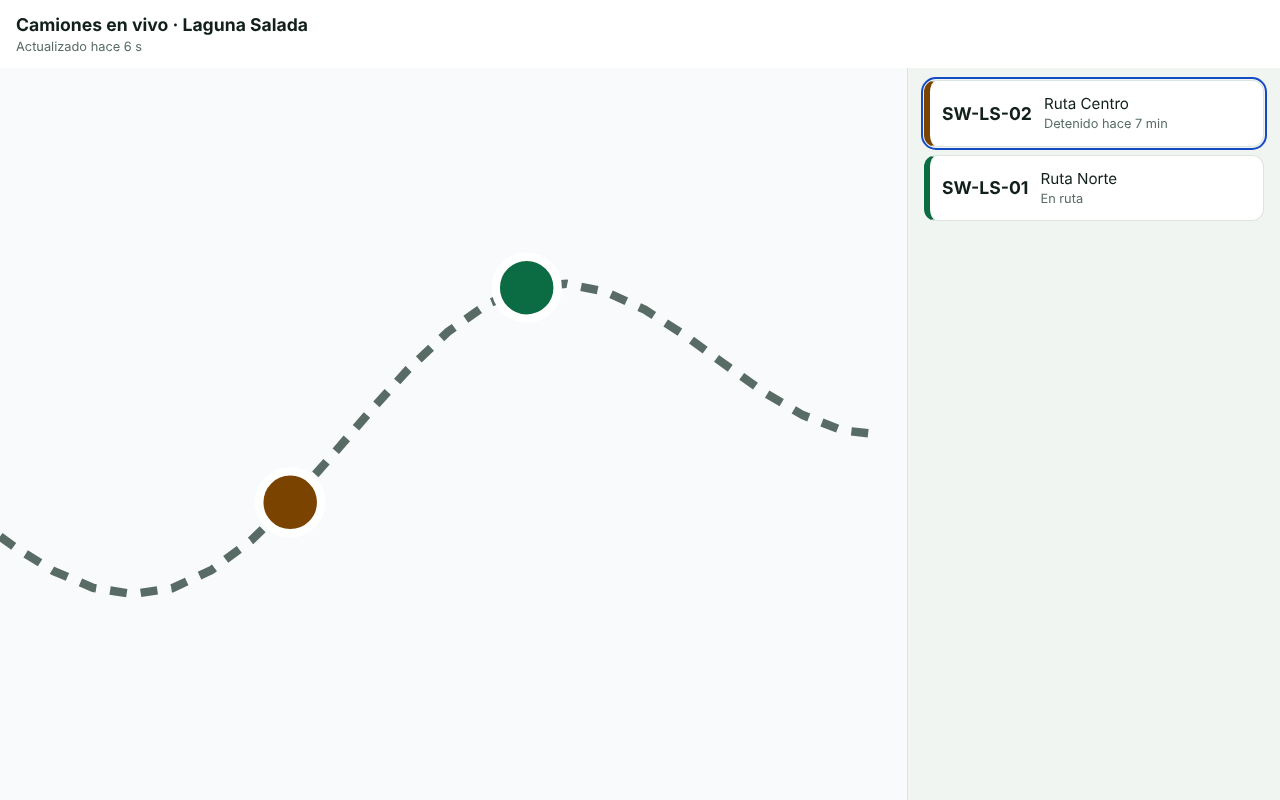
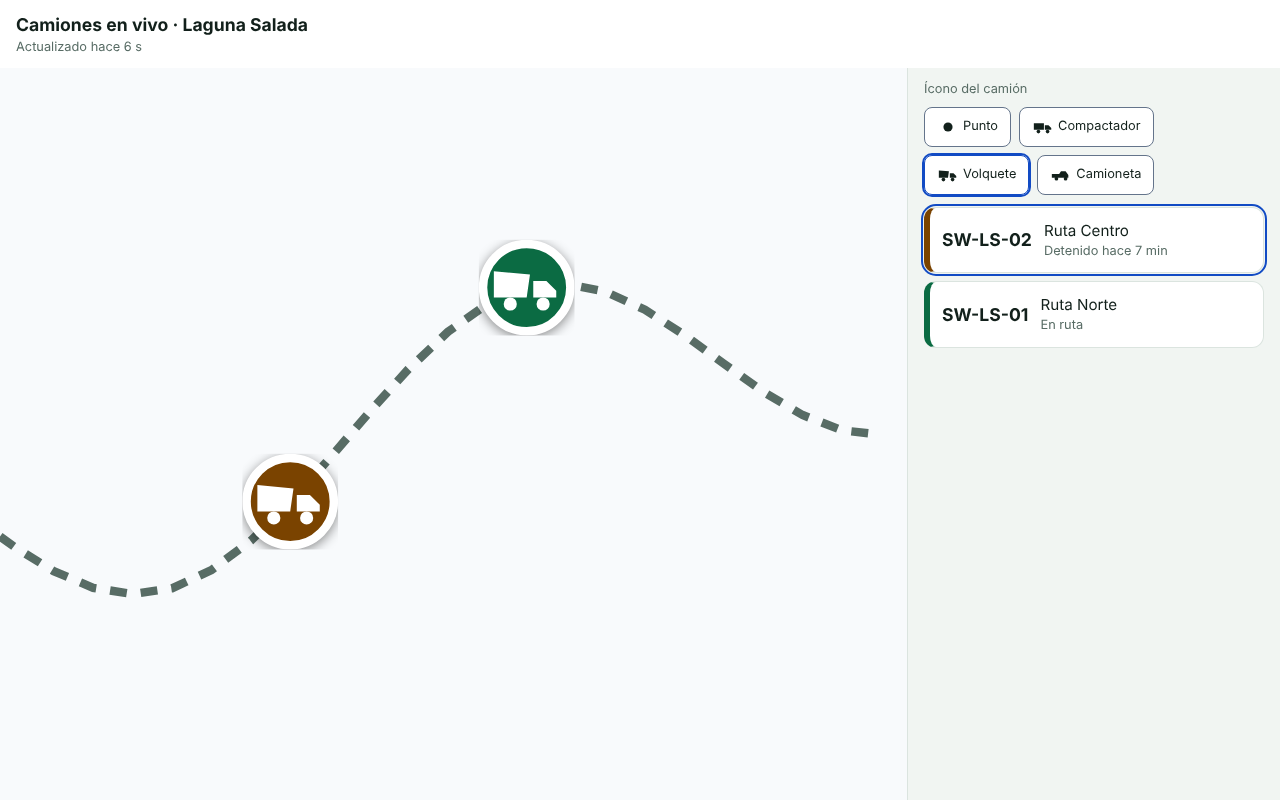
feat(SW-097): selector de íconos de camión para el ciudadano en la maqueta
Claude-Session: https://claude.ai/code/session_01TbnZphqsomRUw92ftRAxET

diff --git a/docs/evidence/SW-097/harness-error.html b/docs/evidence/SW-097/harness-error.html
@@ -195,13 +195,18 @@
 .live-notice__hint { margin-top: var(--space-2) !important; font-size: var(--font-size-1); color: var(--color-muted); }
 .live-notice--error { background: var(--color-warning-bg); color: var(--color-warning); border-color: var(--color-warning); }
 .live-notice--error .live-notice__hint { color: inherit; }
-.live-marker { width: 22px; height: 22px; border-radius: 50%; background: var(--status-en-ruta); border: 3px solid var(--color-surface); box-shadow: 0 1px 4px rgba(0,0,0,.45); }
+.live-marker { box-sizing: border-box; display: inline-flex; align-items: center; justify-content: center; width: 34px; height: 34px; border-radius: 50%; background: var(--status-en-ruta); color: var(--color-primary-contrast); border: 3px solid var(--color-surface); box-shadow: 0 1px 4px rgba(0,0,0,.45); }
 .live-marker--detenido { background: var(--status-detenido); }
-.live-marker--sin_senal { background: var(--status-sin-senal); opacity: .7; }
+.live-marker--sin_senal { background: var(--status-sin-senal); opacity: .75; }
+.live-icons { display: flex; flex-direction: column; gap: var(--space-2); }
+.live-icons__label { font-size: var(--font-size-1); color: var(--color-muted); }
+.live-icons__row { display: flex; flex-wrap: wrap; gap: var(--space-2); }
+.live-icon-option { display: inline-flex; align-items: center; gap: var(--space-1); padding: var(--space-2) var(--space-3); border: 1px solid var(--color-border-input); border-radius: var(--radius-1); background: var(--color-surface); color: var(--color-text); font: inherit; font-size: var(--font-size-1); cursor: pointer; }
+.live-icon-option[aria-pressed="true"] { border-color: var(--color-focus); outline: 2px solid var(--color-focus); }
 @media (min-width: 900px) {
   .live-shell { height: 100vh; }
   .live-body { flex-direction: row; }
   .live-map { flex: 1; height: auto; }
   .live-panel { width: 340px; overflow-y: auto; border-left: 1px solid var(--color-border); }
 }
-</style><script>var t=new URLSearchParams(location.search).get('t');document.documentElement.dataset.theme=t==='claro'?'claro':'oscuro';</script></head><body class="live-page"><div class="live-shell"><header class="live-header"><h1 class="live-header__title">Camiones en vivo · Laguna Salada</h1><p class="live-header__updated" aria-live="polite">Actualizado hace 1 min</p></header><div class="live-body"><div class="live-map"><svg viewBox="0 0 400 260" preserveAspectRatio="xMidYMid slice" role="img" aria-label="Mapa de ejemplo"><rect width="400" height="260" fill="var(--color-background-alt)"/><polyline points="30,160 44,170.0877878718461 58,178.7347921227895 72,184.65883939231585 86,186.87751605453252 100,184.81631831007059 114,178.37189707302727 128,167.92343526953297 142,154.29090506543247 156,138.6448003223947 170,122.37728148498059 184,106.9489180564662 198,93.72790018768288 212,83.83941994916952 226,78.04180331608288 240,76.64302901347446 254,79.4668243372968 268,85.87207033022764 282,94.82338007204297 296,105.00508039528691 310,114.9660492228488 324,123.27946394875156 338,128.69987478475224 352,130.30031147945493" fill="none" stroke="var(--color-muted)" stroke-width="3" stroke-dasharray="6 5"/><circle cx="142" cy="154.29090506543247" r="11" fill="var(--status-en-ruta)" stroke="var(--color-surface)" stroke-width="3"/><circle cx="226" cy="78.04180331608288" r="11" fill="var(--status-detenido)" stroke="var(--color-surface)" stroke-width="3"/></svg></div><div class="live-panel"><div class="live-notice live-notice--error" role="status"><p>No pudimos actualizar. Reintentando…</p><p class="live-notice__hint">Mostramos la última posición conocida.</p></div><ul class="live-list"><li><button type="button" class="live-card live-card--en_ruta" data-live-vehicle="SW-LS-01" aria-current="true"><span class="live-card__code">SW-LS-01</span><span class="live-card__route">Ruta Norte</span><span class="live-card__status">En ruta</span></button></li><li><button type="button" class="live-card live-card--detenido" data-live-vehicle="SW-LS-02"><span class="live-card__code">SW-LS-02</span><span class="live-card__route">Ruta Centro</span><span class="live-card__status">Detenido hace 7 min</span></button></li></ul></div></div></div></body></html>
+</style><script>var t=new URLSearchParams(location.search).get('t');document.documentElement.dataset.theme=t==='claro'?'claro':'oscuro';</script></head><body class="live-page"><div class="live-shell"><header class="live-header"><h1 class="live-header__title">Camiones en vivo · Laguna Salada</h1><p class="live-header__updated" aria-live="polite">Actualizado hace 1 min</p></header><div class="live-body"><div class="live-map"><svg viewBox="0 0 400 260" preserveAspectRatio="xMidYMid slice" role="img" aria-label="Mapa de ejemplo"><rect width="400" height="260" fill="var(--color-background-alt)"/><polyline points="30,160 44,170.0877878718461 58,178.7347921227895 72,184.65883939231585 86,186.87751605453252 100,184.81631831007059 114,178.37189707302727 128,167.92343526953297 142,154.29090506543247 156,138.6448003223947 170,122.37728148498059 184,106.9489180564662 198,93.72790018768288 212,83.83941994916952 226,78.04180331608288 240,76.64302901347446 254,79.4668243372968 268,85.87207033022764 282,94.82338007204297 296,105.00508039528691 310,114.9660492228488 324,123.27946394875156 338,128.69987478475224 352,130.30031147945493" fill="none" stroke="var(--color-muted)" stroke-width="3" stroke-dasharray="6 5"/><foreignObject x="125" y="137.29090506543247" width="34" height="34"><span class="live-marker live-marker--en_ruta"><svg viewBox="0 0 24 24" width="22" height="22" aria-hidden="true"><circle cx="12" cy="12" r="5" fill="currentColor"/></svg></span></foreignObject><foreignObject x="209" y="61.04180331608288" width="34" height="34"><span class="live-marker live-marker--detenido"><svg viewBox="0 0 24 24" width="22" height="22" aria-hidden="true"><circle cx="12" cy="12" r="5" fill="currentColor"/></svg></span></foreignObject></svg></div><div class="live-panel"><div class="live-icons" role="group" aria-label="Ícono de los camiones"><span class="live-icons__label">Ícono del camión</span><div class="live-icons__row"><button type="button" class="live-icon-option" data-live-icon="punto" aria-pressed="true" title="Punto"><svg viewBox="0 0 24 24" width="22" height="22" aria-hidden="true"><circle cx="12" cy="12" r="5" fill="currentColor"/></svg><span>Punto</span></button><button type="button" class="live-icon-option" data-live-icon="compactador" aria-pressed="false" title="Compactador"><svg viewBox="0 0 24 24" width="22" height="22" aria-hidden="true"><path fill="currentColor" d="M2 8h11v7H2zM14 10h4l3 3v2h-7z"/><circle cx="7" cy="17" r="2" fill="currentColor"/><circle cx="17" cy="17" r="2" fill="currentColor"/></svg><span>Compactador</span></button><button type="button" class="live-icon-option" data-live-icon="volquete" aria-pressed="false" title="Volquete"><svg viewBox="0 0 24 24" width="22" height="22" aria-hidden="true"><path fill="currentColor" d="M2 7l11 1-1 7H2zM14 10h4l3 3v2h-7z"/><circle cx="7" cy="17" r="2" fill="currentColor"/><circle cx="17" cy="17" r="2" fill="currentColor"/></svg><span>Volquete</span></button><button type="button" class="live-icon-option" data-live-icon="camioneta" aria-pressed="false" title="Camioneta"><svg viewBox="0 0 24 24" width="22" height="22" aria-hidden="true"><path fill="currentColor" d="M2 11h8l2-3h5l3 4v3H2z"/><circle cx="7" cy="16" r="2" fill="currentColor"/><circle cx="17" cy="16" r="2" fill="currentColor"/></svg><span>Camioneta</span></button></div></div><div class="live-notice live-notice--error" role="status"><p>No pudimos actualizar. Reintentando…</p><p class="live-notice__hint">Mostramos la última posición conocida.</p></div><ul class="live-list"><li><button type="button" class="live-card live-card--en_ruta" data-live-vehicle="SW-LS-01" aria-current="true"><span class="live-card__code">SW-LS-01</span><span class="live-card__route">Ruta Norte</span><span class="live-card__status">En ruta</span></button></li><li><button type="button" class="live-card live-card--detenido" data-live-vehicle="SW-LS-02"><span class="live-card__code">SW-LS-02</span><span class="live-card__route">Ruta Centro</span><span class="live-card__status">Detenido hace 7 min</span></button></li></ul></div></div></div></body></html>

diff --git a/docs/evidence/SW-097/harness-sin-senal.html b/docs/evidence/SW-097/harness-sin-senal.html
@@ -195,13 +195,18 @@
 .live-notice__hint { margin-top: var(--space-2) !important; font-size: var(--font-size-1); color: var(--color-muted); }
 .live-notice--error { background: var(--color-warning-bg); color: var(--color-warning); border-color: var(--color-warning); }
 .live-notice--error .live-notice__hint { color: inherit; }
-.live-marker { width: 22px; height: 22px; border-radius: 50%; background: var(--status-en-ruta); border: 3px solid var(--color-surface); box-shadow: 0 1px 4px rgba(0,0,0,.45); }
+.live-marker { box-sizing: border-box; display: inline-flex; align-items: center; justify-content: center; width: 34px; height: 34px; border-radius: 50%; background: var(--status-en-ruta); color: var(--color-primary-contrast); border: 3px solid var(--color-surface); box-shadow: 0 1px 4px rgba(0,0,0,.45); }
 .live-marker--detenido { background: var(--status-detenido); }
-.live-marker--sin_senal { background: var(--status-sin-senal); opacity: .7; }
+.live-marker--sin_senal { background: var(--status-sin-senal); opacity: .75; }
+.live-icons { display: flex; flex-direction: column; gap: var(--space-2); }
+.live-icons__label { font-size: var(--font-size-1); color: var(--color-muted); }
+.live-icons__row { display: flex; flex-wrap: wrap; gap: var(--space-2); }
+.live-icon-option { display: inline-flex; align-items: center; gap: var(--space-1); padding: var(--space-2) var(--space-3); border: 1px solid var(--color-border-input); border-radius: var(--radius-1); background: var(--color-surface); color: var(--color-text); font: inherit; font-size: var(--font-size-1); cursor: pointer; }
+.live-icon-option[aria-pressed="true"] { border-color: var(--color-focus); outline: 2px solid var(--color-focus); }
 @media (min-width: 900px) {
   .live-shell { height: 100vh; }
   .live-body { flex-direction: row; }
   .live-map { flex: 1; height: auto; }
   .live-panel { width: 340px; overflow-y: auto; border-left: 1px solid var(--color-border); }
 }
-</style><script>var t=new URLSearchParams(location.search).get('t');document.documentElement.dataset.theme=t==='claro'?'claro':'oscuro';</script></head><body class="live-page"><div class="live-shell"><header class="live-header"><h1 class="live-header__title">Camiones en vivo · Laguna Salada</h1><p class="live-header__updated" aria-live="polite">Actualizado hace 12 s</p></header><div class="live-body"><div class="live-map"><svg viewBox="0 0 400 260" preserveAspectRatio="xMidYMid slice" role="img" aria-label="Mapa de ejemplo"><rect width="400" height="260" fill="var(--color-background-alt)"/><polyline points="30,160 44,170.0877878718461 58,178.7347921227895 72,184.65883939231585 86,186.87751605453252 100,184.81631831007059 114,178.37189707302727 128,167.92343526953297 142,154.29090506543247 156,138.6448003223947 170,122.37728148498059 184,106.9489180564662 198,93.72790018768288 212,83.83941994916952 226,78.04180331608288 240,76.64302901347446 254,79.4668243372968 268,85.87207033022764 282,94.82338007204297 296,105.00508039528691 310,114.9660492228488 324,123.27946394875156 338,128.69987478475224 352,130.30031147945493" fill="none" stroke="var(--color-muted)" stroke-width="3" stroke-dasharray="6 5"/><circle cx="142" cy="154.29090506543247" r="11" fill="var(--status-sin-senal)" stroke="var(--color-surface)" stroke-width="3"/><circle cx="226" cy="78.04180331608288" r="11" fill="var(--status-en-ruta)" stroke="var(--color-surface)" stroke-width="3"/></svg></div><div class="live-panel"><ul class="live-list"><li><button type="button" class="live-card live-card--sin_senal is-stale" data-live-vehicle="SW-LS-03" aria-current="true"><span class="live-card__code">SW-LS-03</span><span class="live-card__route">Ruta Mercado</span><span class="live-card__status">Sin señal desde las 14:50</span></button></li><li><button type="button" class="live-card live-card--en_ruta" data-live-vehicle="SW-LS-01"><span class="live-card__code">SW-LS-01</span><span class="live-card__route">Ruta Norte</span><span class="live-card__status">En ruta</span></button></li></ul></div></div></div></body></html>
+</style><script>var t=new URLSearchParams(location.search).get('t');document.documentElement.dataset.theme=t==='claro'?'claro':'oscuro';</script></head><body class="live-page"><div class="live-shell"><header class="live-header"><h1 class="live-header__title">Camiones en vivo · Laguna Salada</h1><p class="live-header__updated" aria-live="polite">Actualizado hace 12 s</p></header><div class="live-body"><div class="live-map"><svg viewBox="0 0 400 260" preserveAspectRatio="xMidYMid slice" role="img" aria-label="Mapa de ejemplo"><rect width="400" height="260" fill="var(--color-background-alt)"/><polyline points="30,160 44,170.0877878718461 58,178.7347921227895 72,184.65883939231585 86,186.87751605453252 100,184.81631831007059 114,178.37189707302727 128,167.92343526953297 142,154.29090506543247 156,138.6448003223947 170,122.37728148498059 184,106.9489180564662 198,93.72790018768288 212,83.83941994916952 226,78.04180331608288 240,76.64302901347446 254,79.4668243372968 268,85.87207033022764 282,94.82338007204297 296,105.00508039528691 310,114.9660492228488 324,123.27946394875156 338,128.69987478475224 352,130.30031147945493" fill="none" stroke="var(--color-muted)" stroke-width="3" stroke-dasharray="6 5"/><foreignObject x="125" y="137.29090506543247" width="34" height="34"><span class="live-marker live-marker--sin_senal"><svg viewBox="0 0 24 24" width="22" height="22" aria-hidden="true"><path fill="currentColor" d="M2 11h8l2-3h5l3 4v3H2z"/><circle cx="7" cy="16" r="2" fill="currentColor"/><circle cx="17" cy="16" r="2" fill="currentColor"/></svg></span></foreignObject><foreignObject x="209" y="61.04180331608288" width="34" height="34"><span class="live-marker live-marker--en_ruta"><svg viewBox="0 0 24 24" width="22" height="22" aria-hidden="true"><path fill="currentColor" d="M2 11h8l2-3h5l3 4v3H2z"/><circle cx="7" cy="16" r="2" fill="currentColor"/><circle cx="17" cy="16" r="2" fill="currentColor"/></svg></span></foreignObject></svg></div><div class="live-panel"><div class="live-icons" role="group" aria-label="Ícono de los camiones"><span class="live-icons__label">Ícono del camión</span><div class="live-icons__row"><button type="button" class="live-icon-option" data-live-icon="punto" aria-pressed="false" title="Punto"><svg viewBox="0 0 24 24" width="22" height="22" aria-hidden="true"><circle cx="12" cy="12" r="5" fill="currentColor"/></svg><span>Punto</span></button><button type="button" class="live-icon-option" data-live-icon="compactador" aria-pressed="false" title="Compactador"><svg viewBox="0 0 24 24" width="22" height="22" aria-hidden="true"><path fill="currentColor" d="M2 8h11v7H2zM14 10h4l3 3v2h-7z"/><circle cx="7" cy="17" r="2" fill="currentColor"/><circle cx="17" cy="17" r="2" fill="currentColor"/></svg><span>Compactador</span></button><button type="button" class="live-icon-option" data-live-icon="volquete" aria-pressed="false" title="Volquete"><svg viewBox="0 0 24 24" width="22" height="22" aria-hidden="true"><path fill="currentColor" d="M2 7l11 1-1 7H2zM14 10h4l3 3v2h-7z"/><circle cx="7" cy="17" r="2" fill="currentColor"/><circle cx="17" cy="17" r="2" fill="currentColor"/></svg><span>Volquete</span></button><button type="button" class="live-icon-option" data-live-icon="camioneta" aria-pressed="true" title="Camioneta"><svg viewBox="0 0 24 24" width="22" height="22" aria-hidden="true"><path fill="currentColor" d="M2 11h8l2-3h5l3 4v3H2z"/><circle cx="7" cy="16" r="2" fill="currentColor"/><circle cx="17" cy="16" r="2" fill="currentColor"/></svg><span>Camioneta</span></button></div></div><ul class="live-list"><li><button type="button" class="live-card live-card--sin_senal is-stale" data-live-vehicle="SW-LS-03" aria-current="true"><span class="live-card__code">SW-LS-03</span><span class="live-card__route">Ruta Mercado</span><span class="live-card__status">Sin señal desde las 14:50</span></button></li><li><button type="button" class="live-card live-card--en_ruta" data-live-vehicle="SW-LS-01"><span class="live-card__code">SW-LS-01</span><span class="live-card__route">Ruta Norte</span><span class="live-card__status">En ruta</span></button></li></ul></div></div></div></body></html>

diff --git a/docs/evidence/SW-097/harness-detenido.html b/docs/evidence/SW-097/harness-detenido.html
@@ -195,13 +195,18 @@
 .live-notice__hint { margin-top: var(--space-2) !important; font-size: var(--font-size-1); color: var(--color-muted); }
 .live-notice--error { background: var(--color-warning-bg); color: var(--color-warning); border-color: var(--color-warning); }
 .live-notice--error .live-notice__hint { color: inherit; }
-.live-marker { width: 22px; height: 22px; border-radius: 50%; background: var(--status-en-ruta); border: 3px solid var(--color-surface); box-shadow: 0 1px 4px rgba(0,0,0,.45); }
+.live-marker { box-sizing: border-box; display: inline-flex; align-items: center; justify-content: center; width: 34px; height: 34px; border-radius: 50%; background: var(--status-en-ruta); color: var(--color-primary-contrast); border: 3px solid var(--color-surface); box-shadow: 0 1px 4px rgba(0,0,0,.45); }
 .live-marker--detenido { background: var(--status-detenido); }
-.live-marker--sin_senal { background: var(--status-sin-senal); opacity: .7; }
+.live-marker--sin_senal { background: var(--status-sin-senal); opacity: .75; }
+.live-icons { display: flex; flex-direction: column; gap: var(--space-2); }
+.live-icons__label { font-size: var(--font-size-1); color: var(--color-muted); }
+.live-icons__row { display: flex; flex-wrap: wrap; gap: var(--space-2); }
+.live-icon-option { display: inline-flex; align-items: center; gap: var(--space-1); padding: var(--space-2) var(--space-3); border: 1px solid var(--color-border-input); border-radius: var(--radius-1); background: var(--color-surface); color: var(--color-text); font: inherit; font-size: var(--font-size-1); cursor: pointer; }
+.live-icon-option[aria-pressed="true"] { border-color: var(--color-focus); outline: 2px solid var(--color-focus); }
 @media (min-width: 900px) {
   .live-shell { height: 100vh; }
   .live-body { flex-direction: row; }
   .live-map { flex: 1; height: auto; }
   .live-panel { width: 340px; overflow-y: auto; border-left: 1px solid var(--color-border); }
 }
-</style><script>var t=new URLSearchParams(location.search).get('t');document.documentElement.dataset.theme=t==='claro'?'claro':'oscuro';</script></head><body class="live-page"><div class="live-shell"><header class="live-header"><h1 class="live-header__title">Camiones en vivo · Laguna Salada</h1><p class="live-header__updated" aria-live="polite">Actualizado hace 6 s</p></header><div class="live-body"><div class="live-map"><svg viewBox="0 0 400 260" preserveAspectRatio="xMidYMid slice" role="img" aria-label="Mapa de ejemplo"><rect width="400" height="260" fill="var(--color-background-alt)"/><polyline points="30,160 44,170.0877878718461 58,178.7347921227895 72,184.65883939231585 86,186.87751605453252 100,184.81631831007059 114,178.37189707302727 128,167.92343526953297 142,154.29090506543247 156,138.6448003223947 170,122.37728148498059 184,106.9489180564662 198,93.72790018768288 212,83.83941994916952 226,78.04180331608288 240,76.64302901347446 254,79.4668243372968 268,85.87207033022764 282,94.82338007204297 296,105.00508039528691 310,114.9660492228488 324,123.27946394875156 338,128.69987478475224 352,130.30031147945493" fill="none" stroke="var(--color-muted)" stroke-width="3" stroke-dasharray="6 5"/><circle cx="142" cy="154.29090506543247" r="11" fill="var(--status-detenido)" stroke="var(--color-surface)" stroke-width="3"/><circle cx="226" cy="78.04180331608288" r="11" fill="var(--status-en-ruta)" stroke="var(--color-surface)" stroke-width="3"/></svg></div><div class="live-panel"><ul class="live-list"><li><button type="button" class="live-card live-card--detenido" data-live-vehicle="SW-LS-02" aria-current="true"><span class="live-card__code">SW-LS-02</span><span class="live-card__route">Ruta Centro</span><span class="live-card__status">Detenido hace 7 min</span></button></li><li><button type="button" class="live-card live-card--en_ruta" data-live-vehicle="SW-LS-01"><span class="live-card__code">SW-LS-01</span><span class="live-card__route">Ruta Norte</span><span class="live-card__status">En ruta</span></button></li></ul></div></div></div></body></html>
+</style><script>var t=new URLSearchParams(location.search).get('t');document.documentElement.dataset.theme=t==='claro'?'claro':'oscuro';</script></head><body class="live-page"><div class="live-shell"><header class="live-header"><h1 class="live-header__title">Camiones en vivo · Laguna Salada</h1><p class="live-header__updated" aria-live="polite">Actualizado hace 6 s</p></header><div class="live-body"><div class="live-map"><svg viewBox="0 0 400 260" preserveAspectRatio="xMidYMid slice" role="img" aria-label="Mapa de ejemplo"><rect width="400" height="260" fill="var(--color-background-alt)"/><polyline points="30,160 44,170.0877878718461 58,178.7347921227895 72,184.65883939231585 86,186.87751605453252 100,184.81631831007059 114,178.37189707302727 128,167.92343526953297 142,154.29090506543247 156,138.6448003223947 170,122.37728148498059 184,106.9489180564662 198,93.72790018768288 212,83.83941994916952 226,78.04180331608288 240,76.64302901347446 254,79.4668243372968 268,85.87207033022764 282,94.82338007204297 296,105.00508039528691 310,114.9660492228488 324,123.27946394875156 338,128.69987478475224 352,130.30031147945493" fill="none" stroke="var(--color-muted)" stroke-width="3" stroke-dasharray="6 5"/><foreignObject x="125" y="137.29090506543247" width="34" height="34"><span class="live-marker live-marker--detenido"><svg viewBox="0 0 24 24" width="22" height="22" aria-hidden="true"><path fill="currentColor" d="M2 7l11 1-1 7H2zM14 10h4l3 3v2h-7z"/><circle cx="7" cy="17" r="2" fill="currentColor"/><circle cx="17" cy="17" r="2" fill="currentColor"/></svg></span></foreignObject><foreignObject x="209" y="61.04180331608288" width="34" height="34"><span class="live-marker live-marker--en_ruta"><svg viewBox="0 0 24 24" width="22" height="22" aria-hidden="true"><path fill="currentColor" d="M2 7l11 1-1 7H2zM14 10h4l3 3v2h-7z"/><circle cx="7" cy="17" r="2" fill="currentColor"/><circle cx="17" cy="17" r="2" fill="currentColor"/></svg></span></foreignObject></svg></div><div class="live-panel"><div class="live-icons" role="group" aria-label="Ícono de los camiones"><span class="live-icons__label">Ícono del camión</span><div class="live-icons__row"><button type="button" class="live-icon-option" data-live-icon="punto" aria-pressed="false" title="Punto"><svg viewBox="0 0 24 24" width="22" height="22" aria-hidden="true"><circle cx="12" cy="12" r="5" fill="currentColor"/></svg><span>Punto</span></button><button type="button" class="live-icon-option" data-live-icon="compactador" aria-pressed="false" title="Compactador"><svg viewBox="0 0 24 24" width="22" height="22" aria-hidden="true"><path fill="currentColor" d="M2 8h11v7H2zM14 10h4l3 3v2h-7z"/><circle cx="7" cy="17" r="2" fill="currentColor"/><circle cx="17" cy="17" r="2" fill="currentColor"/></svg><span>Compactador</span></button><button type="button" class="live-icon-option" data-live-icon="volquete" aria-pressed="true" title="Volquete"><svg viewBox="0 0 24 24" width="22" height="22" aria-hidden="true"><path fill="currentColor" d="M2 7l11 1-1 7H2zM14 10h4l3 3v2h-7z"/><circle cx="7" cy="17" r="2" fill="currentColor"/><circle cx="17" cy="17" r="2" fill="currentColor"/></svg><span>Volquete</span></button><button type="button" class="live-icon-option" data-live-icon="camioneta" aria-pressed="false" title="Camioneta"><svg viewBox="0 0 24 24" width="22" height="22" aria-hidden="true"><path fill="currentColor" d="M2 11h8l2-3h5l3 4v3H2z"/><circle cx="7" cy="16" r="2" fill="currentColor"/><circle cx="17" cy="16" r="2" fill="currentColor"/></svg><span>Camioneta</span></button></div></div><ul class="live-list"><li><button type="button" class="live-card live-card--detenido" data-live-vehicle="SW-LS-02" aria-current="true"><span class="live-card__code">SW-LS-02</span><span class="live-card__route">Ruta Centro</span><span class="live-card__status">Detenido hace 7 min</span></button></li><li><button type="button" class="live-card live-card--en_ruta" data-live-vehicle="SW-LS-01"><span class="live-card__code">SW-LS-01</span><span class="live-card__route">Ruta Norte</span><span class="live-card__status">En ruta</span></button></li></ul></div></div></div></body></html>

diff --git a/docs/evidence/SW-097/harness-en-ruta.html b/docs/evidence/SW-097/harness-en-ruta.html
@@ -195,13 +195,18 @@
 .live-notice__hint { margin-top: var(--space-2) !important; font-size: var(--font-size-1); color: var(--color-muted); }
 .live-notice--error { background: var(--color-warning-bg); color: var(--color-warning); border-color: var(--color-warning); }
 .live-notice--error .live-notice__hint { color: inherit; }
-.live-marker { width: 22px; height: 22px; border-radius: 50%; background: var(--status-en-ruta); border: 3px solid var(--color-surface); box-shadow: 0 1px 4px rgba(0,0,0,.45); }
+.live-marker { box-sizing: border-box; display: inline-flex; align-items: center; justify-content: center; width: 34px; height: 34px; border-radius: 50%; background: var(--status-en-ruta); color: var(--color-primary-contrast); border: 3px solid var(--color-surface); box-shadow: 0 1px 4px rgba(0,0,0,.45); }
 .live-marker--detenido { background: var(--status-detenido); }
-.live-marker--sin_senal { background: var(--status-sin-senal); opacity: .7; }
+.live-marker--sin_senal { background: var(--status-sin-senal); opacity: .75; }
+.live-icons { display: flex; flex-direction: column; gap: var(--space-2); }
+.live-icons__label { font-size: var(--font-size-1); color: var(--color-muted); }
+.live-icons__row { display: flex; flex-wrap: wrap; gap: var(--space-2); }
+.live-icon-option { display: inline-flex; align-items: center; gap: var(--space-1); padding: var(--space-2) var(--space-3); border: 1px solid var(--color-border-input); border-radius: var(--radius-1); background: var(--color-surface); color: var(--color-text); font: inherit; font-size: var(--font-size-1); cursor: pointer; }
+.live-icon-option[aria-pressed="true"] { border-color: var(--color-focus); outline: 2px solid var(--color-focus); }
 @media (min-width: 900px) {
   .live-shell { height: 100vh; }
   .live-body { flex-direction: row; }
   .live-map { flex: 1; height: auto; }
   .live-panel { width: 340px; overflow-y: auto; border-left: 1px solid var(--color-border); }
 }
-</style><script>var t=new URLSearchParams(location.search).get('t');document.documentElement.dataset.theme=t==='claro'?'claro':'oscuro';</script></head><body class="live-page"><div class="live-shell"><header class="live-header"><h1 class="live-header__title">Camiones en vivo · Laguna Salada</h1><p class="live-header__updated" aria-live="polite">Actualizado hace 6 s</p></header><div class="live-body"><div class="live-map"><svg viewBox="0 0 400 260" preserveAspectRatio="xMidYMid slice" role="img" aria-label="Mapa de ejemplo"><rect width="400" height="260" fill="var(--color-background-alt)"/><polyline points="30,160 44,170.0877878718461 58,178.7347921227895 72,184.65883939231585 86,186.87751605453252 100,184.81631831007059 114,178.37189707302727 128,167.92343526953297 142,154.29090506543247 156,138.6448003223947 170,122.37728148498059 184,106.9489180564662 198,93.72790018768288 212,83.83941994916952 226,78.04180331608288 240,76.64302901347446 254,79.4668243372968 268,85.87207033022764 282,94.82338007204297 296,105.00508039528691 310,114.9660492228488 324,123.27946394875156 338,128.69987478475224 352,130.30031147945493" fill="none" stroke="var(--color-muted)" stroke-width="3" stroke-dasharray="6 5"/><circle cx="142" cy="154.29090506543247" r="11" fill="var(--status-en-ruta)" stroke="var(--color-surface)" stroke-width="3"/></svg></div><div class="live-panel"><ul class="live-list"><li><button type="button" class="live-card live-card--en_ruta" data-live-vehicle="SW-LS-01" aria-current="true"><span class="live-card__code">SW-LS-01</span><span class="live-card__route">Ruta Norte</span><span class="live-card__status">En ruta</span></button></li></ul></div></div></div></body></html>
+</style><script>var t=new URLSearchParams(location.search).get('t');document.documentElement.dataset.theme=t==='claro'?'claro':'oscuro';</script></head><body class="live-page"><div class="live-shell"><header class="live-header"><h1 class="live-header__title">Camiones en vivo · Laguna Salada</h1><p class="live-header__updated" aria-live="polite">Actualizado hace 6 s</p></header><div class="live-body"><div class="live-map"><svg viewBox="0 0 400 260" preserveAspectRatio="xMidYMid slice" role="img" aria-label="Mapa de ejemplo"><rect width="400" height="260" fill="var(--color-background-alt)"/><polyline points="30,160 44,170.0877878718461 58,178.7347921227895 72,184.65883939231585 86,186.87751605453252 100,184.81631831007059 114,178.37189707302727 128,167.92343526953297 142,154.29090506543247 156,138.6448003223947 170,122.37728148498059 184,106.9489180564662 198,93.72790018768288 212,83.83941994916952 226,78.04180331608288 240,76.64302901347446 254,79.4668243372968 268,85.87207033022764 282,94.82338007204297 296,105.00508039528691 310,114.9660492228488 324,123.27946394875156 338,128.69987478475224 352,130.30031147945493" fill="none" stroke="var(--color-muted)" stroke-width="3" stroke-dasharray="6 5"/><foreignObject x="125" y="137.29090506543247" width="34" height="34"><span class="live-marker live-marker--en_ruta"><svg viewBox="0 0 24 24" width="22" height="22" aria-hidden="true"><path fill="currentColor" d="M2 8h11v7H2zM14 10h4l3 3v2h-7z"/><circle cx="7" cy="17" r="2" fill="currentColor"/><circle cx="17" cy="17" r="2" fill="currentColor"/></svg></span></foreignObject></svg></div><div class="live-panel"><div class="live-icons" role="group" aria-label="Ícono de los camiones"><span class="live-icons__label">Ícono del camión</span><div class="live-icons__row"><button type="button" class="live-icon-option" data-live-icon="punto" aria-pressed="false" title="Punto"><svg viewBox="0 0 24 24" width="22" height="22" aria-hidden="true"><circle cx="12" cy="12" r="5" fill="currentColor"/></svg><span>Punto</span></button><button type="button" class="live-icon-option" data-live-icon="compactador" aria-pressed="true" title="Compactador"><svg viewBox="0 0 24 24" width="22" height="22" aria-hidden="true"><path fill="currentColor" d="M2 8h11v7H2zM14 10h4l3 3v2h-7z"/><circle cx="7" cy="17" r="2" fill="currentColor"/><circle cx="17" cy="17" r="2" fill="currentColor"/></svg><span>Compactador</span></button><button type="button" class="live-icon-option" data-live-icon="volquete" aria-pressed="false" title="Volquete"><svg viewBox="0 0 24 24" width="22" height="22" aria-hidden="true"><path fill="currentColor" d="M2 7l11 1-1 7H2zM14 10h4l3 3v2h-7z"/><circle cx="7" cy="17" r="2" fill="currentColor"/><circle cx="17" cy="17" r="2" fill="currentColor"/></svg><span>Volquete</span></button><button type="button" class="live-icon-option" data-live-icon="camioneta" aria-pressed="false" title="Camioneta"><svg viewBox="0 0 24 24" width="22" height="22" aria-hidden="true"><path fill="currentColor" d="M2 11h8l2-3h5l3 4v3H2z"/><circle cx="7" cy="16" r="2" fill="currentColor"/><circle cx="17" cy="16" r="2" fill="currentColor"/></svg><span>Camioneta</span></button></div></div><ul class="live-list"><li><button type="button" class="live-card live-card--en_ruta" data-live-vehicle="SW-LS-01" aria-current="true"><span class="live-card__code">SW-LS-01</span><span class="live-card__route">Ruta Norte</span><span class="live-card__status">En ruta</span></button></li></ul></div></div></div></body></html>

diff --git a/frontend/components/live-map.js b/frontend/components/live-map.js
@@ -27,3 +27,26 @@ export function renderLiveError({ hasData } = {}) {
 export function renderLiveNoMunicipality() {
   return '<div class="live-notice live-notice--empty"><p>Falta indicar el municipio</p><p class="live-notice__hint">Abre el enlace que te dio tu ayuntamiento para ver los camiones de tu municipio.</p></div>';
 }
+
+// Íconos de camión que el ciudadano puede elegir (solo en su pantalla). Cada uno se dibuja en 24×24.
+export const LIVE_ICONS = [
+  { id: 'punto', label: 'Punto', body: '<circle cx="12" cy="12" r="5" fill="currentColor"/>' },
+  { id: 'compactador', label: 'Compactador', body: '<path fill="currentColor" d="M2 8h11v7H2zM14 10h4l3 3v2h-7z"/><circle cx="7" cy="17" r="2" fill="currentColor"/><circle cx="17" cy="17" r="2" fill="currentColor"/>' },
+  { id: 'volquete', label: 'Volquete', body: '<path fill="currentColor" d="M2 7l11 1-1 7H2zM14 10h4l3 3v2h-7z"/><circle cx="7" cy="17" r="2" fill="currentColor"/><circle cx="17" cy="17" r="2" fill="currentColor"/>' },
+  { id: 'camioneta', label: 'Camioneta', body: '<path fill="currentColor" d="M2 11h8l2-3h5l3 4v3H2z"/><circle cx="7" cy="16" r="2" fill="currentColor"/><circle cx="17" cy="16" r="2" fill="currentColor"/>' }
+];
+const iconOf = (id) => LIVE_ICONS.find((i) => i.id === id) ?? LIVE_ICONS[1];
+
+export function renderLiveIconSvg(iconId) {
+  return `<svg viewBox="0 0 24 24" width="22" height="22" aria-hidden="true">${iconOf(iconId).body}</svg>`;
+}
+
+export function renderLiveMarker({ icon, status } = {}) {
+  return `<span class="live-marker live-marker--${esc(status ?? 'en_ruta')}">${renderLiveIconSvg(icon)}</span>`;
+}
+
+export function renderLiveIconPicker({ selected } = {}) {
+  const current = iconOf(selected).id;
+  const opts = LIVE_ICONS.map((i) => `<button type="button" class="live-icon-option" data-live-icon="${i.id}" aria-pressed="${i.id === current}" title="${esc(i.label)}">${renderLiveIconSvg(i.id)}<span>${esc(i.label)}</span></button>`).join('');
+  return `<div class="live-icons" role="group" aria-label="Ícono de los camiones"><span class="live-icons__label">Ícono del camión</span><div class="live-icons__row">${opts}</div></div>`;
+}

diff --git a/docs/evidence/SW-097/harness-sin-municipio.html b/docs/evidence/SW-097/harness-sin-municipio.html
@@ -195,9 +195,14 @@
 .live-notice__hint { margin-top: var(--space-2) !important; font-size: var(--font-size-1); color: var(--color-muted); }
 .live-notice--error { background: var(--color-warning-bg); color: var(--color-warning); border-color: var(--color-warning); }
 .live-notice--error .live-notice__hint { color: inherit; }
-.live-marker { width: 22px; height: 22px; border-radius: 50%; background: var(--status-en-ruta); border: 3px solid var(--color-surface); box-shadow: 0 1px 4px rgba(0,0,0,.45); }
+.live-marker { box-sizing: border-box; display: inline-flex; align-items: center; justify-content: center; width: 34px; height: 34px; border-radius: 50%; background: var(--status-en-ruta); color: var(--color-primary-contrast); border: 3px solid var(--color-surface); box-shadow: 0 1px 4px rgba(0,0,0,.45); }
 .live-marker--detenido { background: var(--status-detenido); }
-.live-marker--sin_senal { background: var(--status-sin-senal); opacity: .7; }
+.live-marker--sin_senal { background: var(--status-sin-senal); opacity: .75; }
+.live-icons { display: flex; flex-direction: column; gap: var(--space-2); }
+.live-icons__label { font-size: var(--font-size-1); color: var(--color-muted); }
+.live-icons__row { display: flex; flex-wrap: wrap; gap: var(--space-2); }
+.live-icon-option { display: inline-flex; align-items: center; gap: var(--space-1); padding: var(--space-2) var(--space-3); border: 1px solid var(--color-border-input); border-radius: var(--radius-1); background: var(--color-surface); color: var(--color-text); font: inherit; font-size: var(--font-size-1); cursor: pointer; }
+.live-icon-option[aria-pressed="true"] { border-color: var(--color-focus); outline: 2px solid var(--color-focus); }
 @media (min-width: 900px) {
   .live-shell { height: 100vh; }
   .live-body { flex-direction: row; }

diff --git a/docs/evidence/SW-097/harness-vacio.html b/docs/evidence/SW-097/harness-vacio.html
@@ -195,9 +195,14 @@
 .live-notice__hint { margin-top: var(--space-2) !important; font-size: var(--font-size-1); color: var(--color-muted); }
 .live-notice--error { background: var(--color-warning-bg); color: var(--color-warning); border-color: var(--color-warning); }
 .live-notice--error .live-notice__hint { color: inherit; }
-.live-marker { width: 22px; height: 22px; border-radius: 50%; background: var(--status-en-ruta); border: 3px solid var(--color-surface); box-shadow: 0 1px 4px rgba(0,0,0,.45); }
+.live-marker { box-sizing: border-box; display: inline-flex; align-items: center; justify-content: center; width: 34px; height: 34px; border-radius: 50%; background: var(--status-en-ruta); color: var(--color-primary-contrast); border: 3px solid var(--color-surface); box-shadow: 0 1px 4px rgba(0,0,0,.45); }
 .live-marker--detenido { background: var(--status-detenido); }
-.live-marker--sin_senal { background: var(--status-sin-senal); opacity: .7; }
+.live-marker--sin_senal { background: var(--status-sin-senal); opacity: .75; }
+.live-icons { display: flex; flex-direction: column; gap: var(--space-2); }
+.live-icons__label { font-size: var(--font-size-1); color: var(--color-muted); }
+.live-icons__row { display: flex; flex-wrap: wrap; gap: var(--space-2); }
+.live-icon-option { display: inline-flex; align-items: center; gap: var(--space-1); padding: var(--space-2) var(--space-3); border: 1px solid var(--color-border-input); border-radius: var(--radius-1); background: var(--color-surface); color: var(--color-text); font: inherit; font-size: var(--font-size-1); cursor: pointer; }
+.live-icon-option[aria-pressed="true"] { border-color: var(--color-focus); outline: 2px solid var(--color-focus); }
 @media (min-width: 900px) {
   .live-shell { height: 100vh; }
   .live-body { flex-direction: row; }

diff --git a/frontend/styles/live.css b/frontend/styles/live.css
@@ -22,9 +22,14 @@
 .live-notice__hint { margin-top: var(--space-2) !important; font-size: var(--font-size-1); color: var(--color-muted); }
 .live-notice--error { background: var(--color-warning-bg); color: var(--color-warning); border-color: var(--color-warning); }
 .live-notice--error .live-notice__hint { color: inherit; }
-.live-marker { width: 22px; height: 22px; border-radius: 50%; background: var(--status-en-ruta); border: 3px solid var(--color-surface); box-shadow: 0 1px 4px rgba(0,0,0,.45); }
+.live-marker { box-sizing: border-box; display: inline-flex; align-items: center; justify-content: center; width: 34px; height: 34px; border-radius: 50%; background: var(--status-en-ruta); color: var(--color-primary-contrast); border: 3px solid var(--color-surface); box-shadow: 0 1px 4px rgba(0,0,0,.45); }
 .live-marker--detenido { background: var(--status-detenido); }
-.live-marker--sin_senal { background: var(--status-sin-senal); opacity: .7; }
+.live-marker--sin_senal { background: var(--status-sin-senal); opacity: .75; }
+.live-icons { display: flex; flex-direction: column; gap: var(--space-2); }
+.live-icons__label { font-size: var(--font-size-1); color: var(--color-muted); }
+.live-icons__row { display: flex; flex-wrap: wrap; gap: var(--space-2); }
+.live-icon-option { display: inline-flex; align-items: center; gap: var(--space-1); padding: var(--space-2) var(--space-3); border: 1px solid var(--color-border-input); border-radius: var(--radius-1); background: var(--color-surface); color: var(--color-text); font: inherit; font-size: var(--font-size-1); cursor: pointer; }
+.live-icon-option[aria-pressed="true"] { border-color: var(--color-focus); outline: 2px solid var(--color-focus); }
 @media (min-width: 900px) {
   .live-shell { height: 100vh; }
   .live-body { flex-direction: row; }
